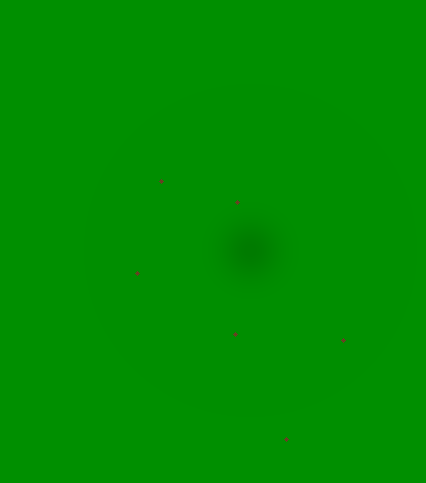
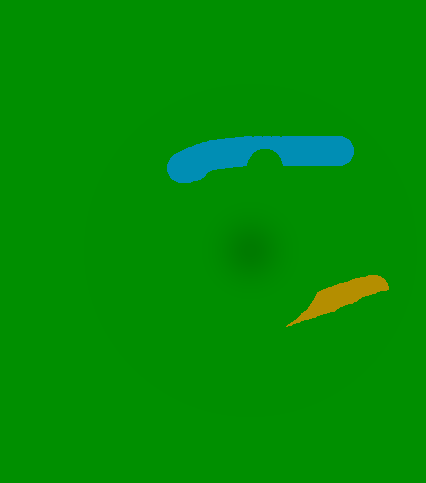
made HIT button

Changed region(s): [[0.3967, 0.2795, 0.8545, 0.4037], [0.6714, 0.559, 0.9155, 0.6832]]

diff --git a/src/main/java/ui/ThirdScreenController.java b/src/main/java/ui/ThirdScreenController.java
@@ -24,6 +24,9 @@ public class ThirdScreenController {
     private Button goBackButton;
 
     @FXML
+    private Button hitButton;
+
+    @FXML
     private Slider powerSlider;
 
     @FXML
@@ -140,6 +143,18 @@ public class ThirdScreenController {
         } else {
             System.err.println("ballCanvas is null");
         }
+    }
+
+    @FXML
+    private void hit() {
+        double[] directionVector = circularSlider.getDirectionVector();
+        double power = powerSlider.getValue();
+        System.out.println("Hit with power: " + power + ", direction: [" + directionVector[0] + ", " + directionVector[1] + "]");
+        System.out.println("StartBallPostion: " + startBallPostion[0] + ", " + startBallPostion[1]);
+
+        // call the engine to calculate the trajectory
+
+        // drawBallAndArrow();
     }
 
     @FXML
